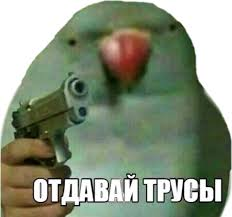
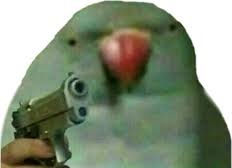
Merit cheap renamed to price Testimonials renamed to reviews Charity parrot cut to prevent "giv panties" from showing up Improved current part recognition

diff --git a/index.html b/index.html
@@ -6,6 +6,7 @@
     <link href="materialize/css/materialize.min.css" rel="stylesheet">
     <link href="index.css" rel="stylesheet">
     <link href="https://fonts.googleapis.com/css?family=Open+Sans:300,300i,400,400i,600,600i,700,700i,800,800i|Raleway:100,100i,200,200i,300,300i,400,400i,500,500i,600,600i,700,700i,800,800i,900,900i|Source+Sans+Pro&display=swap" rel="stylesheet">
+    <link href="https://fonts.googleapis.com/icon?family=Material+Icons" rel="stylesheet">
     <script src="materialize/js/materialize.min.js"></script>
     <script src="index.js"></script>
 </head>
@@ -13,7 +14,7 @@
 <nav>
     <div class="nav-wrapper">
         <a data-activates="mobile-demo" id="menu-button" class="button-collapse left hide-on-large-only">
-            <img src="img/menu-4-48.png" alt="Menu">
+            <i class="material-icons">menu</i>
         </a>
         <a class="brand-logo center hide-on-large-only">
             <img src="img/logo.png" alt="Logo" class="logo">
@@ -23,12 +24,12 @@
             <img src="img/logo.png" alt="Logo" class="logo">
         </a>
         <ul id="nav-mobile" class="right hide-on-med-and-down">
-            <li id="nav-li-home"><a>Home</a></li>
-            <li id="nav-li-service"><a>Service</a></li>
-            <li id="nav-li-merits"><a>Merits</a></li>
-            <li id="nav-li-team"><a>Team</a></li>
-            <li id="nav-li-testimonials"><a>Testimonials</a></li>
-            <li id="nav-li-contact"><a>Contact</a></li>
+            <li><a>Home</a></li>
+            <li><a>Service</a></li>
+            <li><a>Merits</a></li>
+            <li><a>Team</a></li>
+            <li><a>Reviews</a></li>
+            <li><a>Contact</a></li>
         </ul>
     </div>
 </nav>
@@ -37,22 +38,22 @@
     <li><a>Service</a></li>
     <li><a>Merits</a></li>
     <li><a>Team</a></li>
-    <li><a>Testimonials</a></li>
+    <li><a>Reviews</a></li>
     <li><a>Contact</a></li>
 </ul>
-<div class="bg-image-home bg-image">
+<div class="bg-image">
 </div>
 <div class="bg-text bg-text-home">
     <h1>INTRODUCING QUACK-DUCK</h1>
     <p>company that helps people as well as parrots</p>
 </div>
-<div class="bg-image-service bg-image">
+<div class="bg-image">
 </div>
 <div class="bg-text bg-text-service">
     <h1>SERVICE</h1>
     <p>freelance</p>
 </div>
-<div class="bg-image-merits bg-image">
+<div class="bg-image">
 </div>
 <div class="bg-text bg-text-merits">
     <h1>MERITS</h1>
@@ -92,16 +93,16 @@
                     </div>
                     <div class="card-content">
                         <p>
-                            Best specialists in the topics you need
+                            Best specialists in the areas you need
                         </p>
                     </div>
                 </div>
             </div>
-            <div class="col s6 m6 l6 xl4 cheap-card">
+            <div class="col s6 m6 l6 xl4 price-card">
                 <div class="small card">
                     <div class="card-image">
-                        <img src="img/parrot-cheap.jpg" alt="Cheap">
-                        <span class="card-title">Cheap</span>
+                        <img src="img/parrot-price.jpg" alt="Price">
+                        <span class="card-title">Price</span>
                     </div>
                     <div class="card-content">
                         <p>
@@ -113,20 +114,20 @@
         </div>
     </div>
 </div>
-<div class="bg-image-team bg-image">
+<div class="bg-image">
 </div>
 <div class="bg-text bg-text-team">
     <h1>TEAM</h1>
     <p>best specialists in a broad range of topics</p>
 </div>
-<div class="bg-image-testimonials bg-image">
+<div class="bg-image">
 </div>
-<div class="bg-text bg-text-testimonials">
-    <h1>TESTIMONIALS</h1>
+<div class="bg-text bg-text-reviews">
+    <h1>REVIEWS</h1>
     <p>"Very nice!" - Anton "professorik" Boreiko<br>
         "The best site ever" - Nikita "a_void" Ostapliuk</p>
 </div>
-<div class="bg-image-contact bg-image">
+<div class="bg-image">
 </div>
 <div class="bg-text bg-text-contact">
     <h1>CONTACT</h1>

diff --git a/index.js b/index.js
@@ -3,7 +3,6 @@ window.onload = function () {
         if (window.pageYOffset === 0) activateNavElement(NavElement.HOME);
     }, 10);
     const sidenav = new M.Sidenav(document.getElementById("sidenav"), {
-        draggable: true,
         preventScrolling: true
     });
     document.getElementById("menu-button").onclick = sidenav.open.bind(sidenav);
@@ -29,7 +28,7 @@ function randomizeBg() {
     for (let i = 0; i < 6; i++) {
         let idx = parseInt(Math.random() * arr.length);
         let img = arr[idx];
-        document.getElementsByClassName(NavElement.getBgImgClass(i))[0].style["background-image"] = `url(img/${img})`;
+        document.getElementsByClassName("bg-image")[i].style["background-image"] = `url(img/${img})`;
         arr.splice(idx, 1);
     }
 }
@@ -39,19 +38,13 @@ const NavElement = Object.freeze({
     SERVICE: 1,
     MERITS: 2,
     TEAM: 3,
-    TESTIMONIALS: 4,
+    REVIEWS: 4,
     CONTACT: 5,
-    getLiId(element) {
-        return "nav-li-" + Object.keys(NavElement)[Object.values(NavElement).indexOf(element)].toLowerCase();
-    },
-    getBgImgClass(element) {
-        return "bg-image-" + Object.keys(NavElement)[Object.values(NavElement).indexOf(element)].toLowerCase();
-    },
 });
 
 function activateNavElement(id) {
     for (const element in NavElement) if (NavElement.hasOwnProperty(element) && typeof NavElement[element] === "number") {
-        const li = document.getElementById(NavElement.getLiId(NavElement[element]));
+        const li = document.querySelectorAll("#nav-mobile li")[NavElement[element]];
         li.style["background-color"] = id === NavElement[element] ? "rgb(0, 0, 0)" : "";
         li.onclick = id === NavElement[element] ? () => {} : () => goToPart(NavElement[element])
     }
@@ -60,14 +53,13 @@ function activateNavElement(id) {
 function goToPart(id) {
     window.scrollTo({
         behavior: "smooth",
-        top: document.getElementsByClassName(NavElement.getBgImgClass(id))[0].offsetTop - document.querySelector("nav .nav-wrapper").clientHeight
+        top: document.getElementsByClassName("bg-image")[id].offsetTop - document.querySelector("nav .nav-wrapper").clientHeight
     });
 }
 
 window.onscroll = function () {
-    const navHeight = document.querySelector("nav .nav-wrapper").clientHeight;
     for (let i = 0; i < 5; i++) {
-        if (window.pageYOffset < document.getElementsByClassName(NavElement.getBgImgClass(i+1))[0].offsetTop - navHeight) {
+        if (window.pageYOffset < document.getElementsByClassName("bg-image")[i+1].offsetTop - window.innerHeight/2) {
             activateNavElement(i);
             return;
         }

diff --git a/index.css b/index.css
@@ -67,7 +67,7 @@ nav {
 .cards .row .col .card {
     background-color: rgb(34, 34, 34); /* fallback for older browsers */
     background-color: rgba(34, 34, 34, 0.7);
-    transition: 0.3s;
+    transition: 0.2s;
 }
 
 .cards .row .col .card:hover {
@@ -83,7 +83,7 @@ nav {
     top: 350%;
 }
 
-.bg-text-testimonials {
+.bg-text-reviews {
     top: 450%;
 }
 
@@ -118,7 +118,7 @@ nav {
 }
 
 .charity-card .card .card-image .card-title {
-    margin-left: 10px;
+    margin-left: 20px;
 }
 
 .col .card .card-content {
@@ -126,7 +126,15 @@ nav {
 }
 
 @media only screen and (min-width: 1201px) {
-    .cheap-card {
+    .price-card {
         transform: translateX(100%);
     }
+}
+
+#menu-button {
+    margin-top: 7px;
+}
+
+#menu-button i.material-icons {
+    font-size: 50px;
 }
